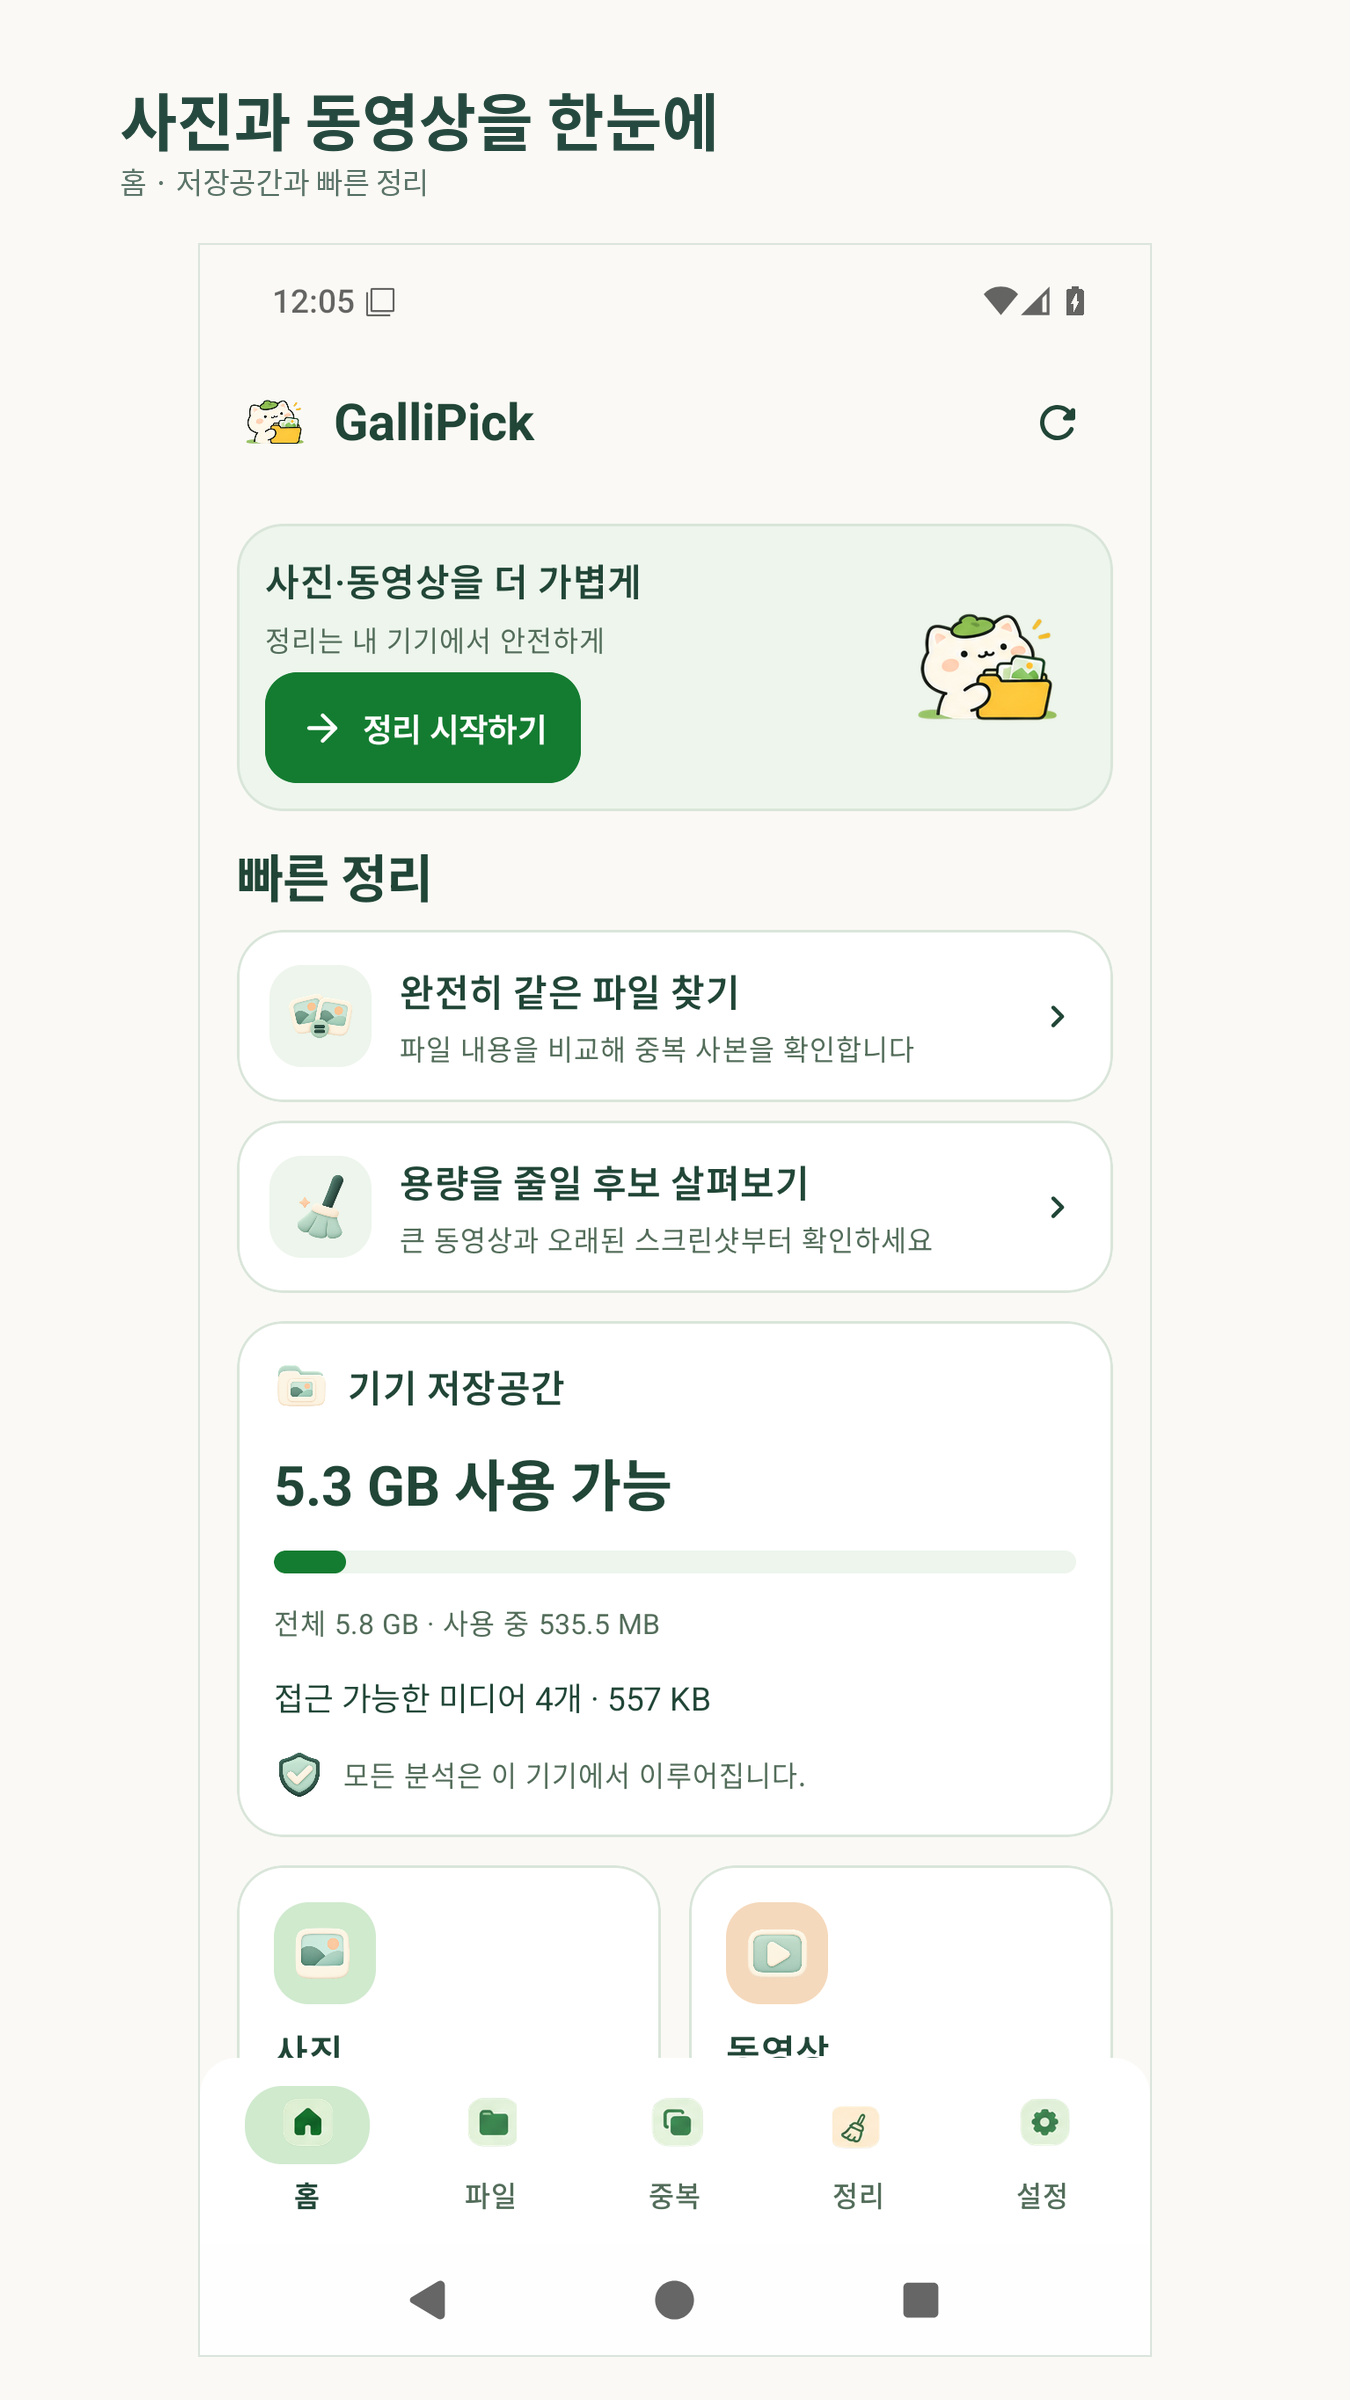
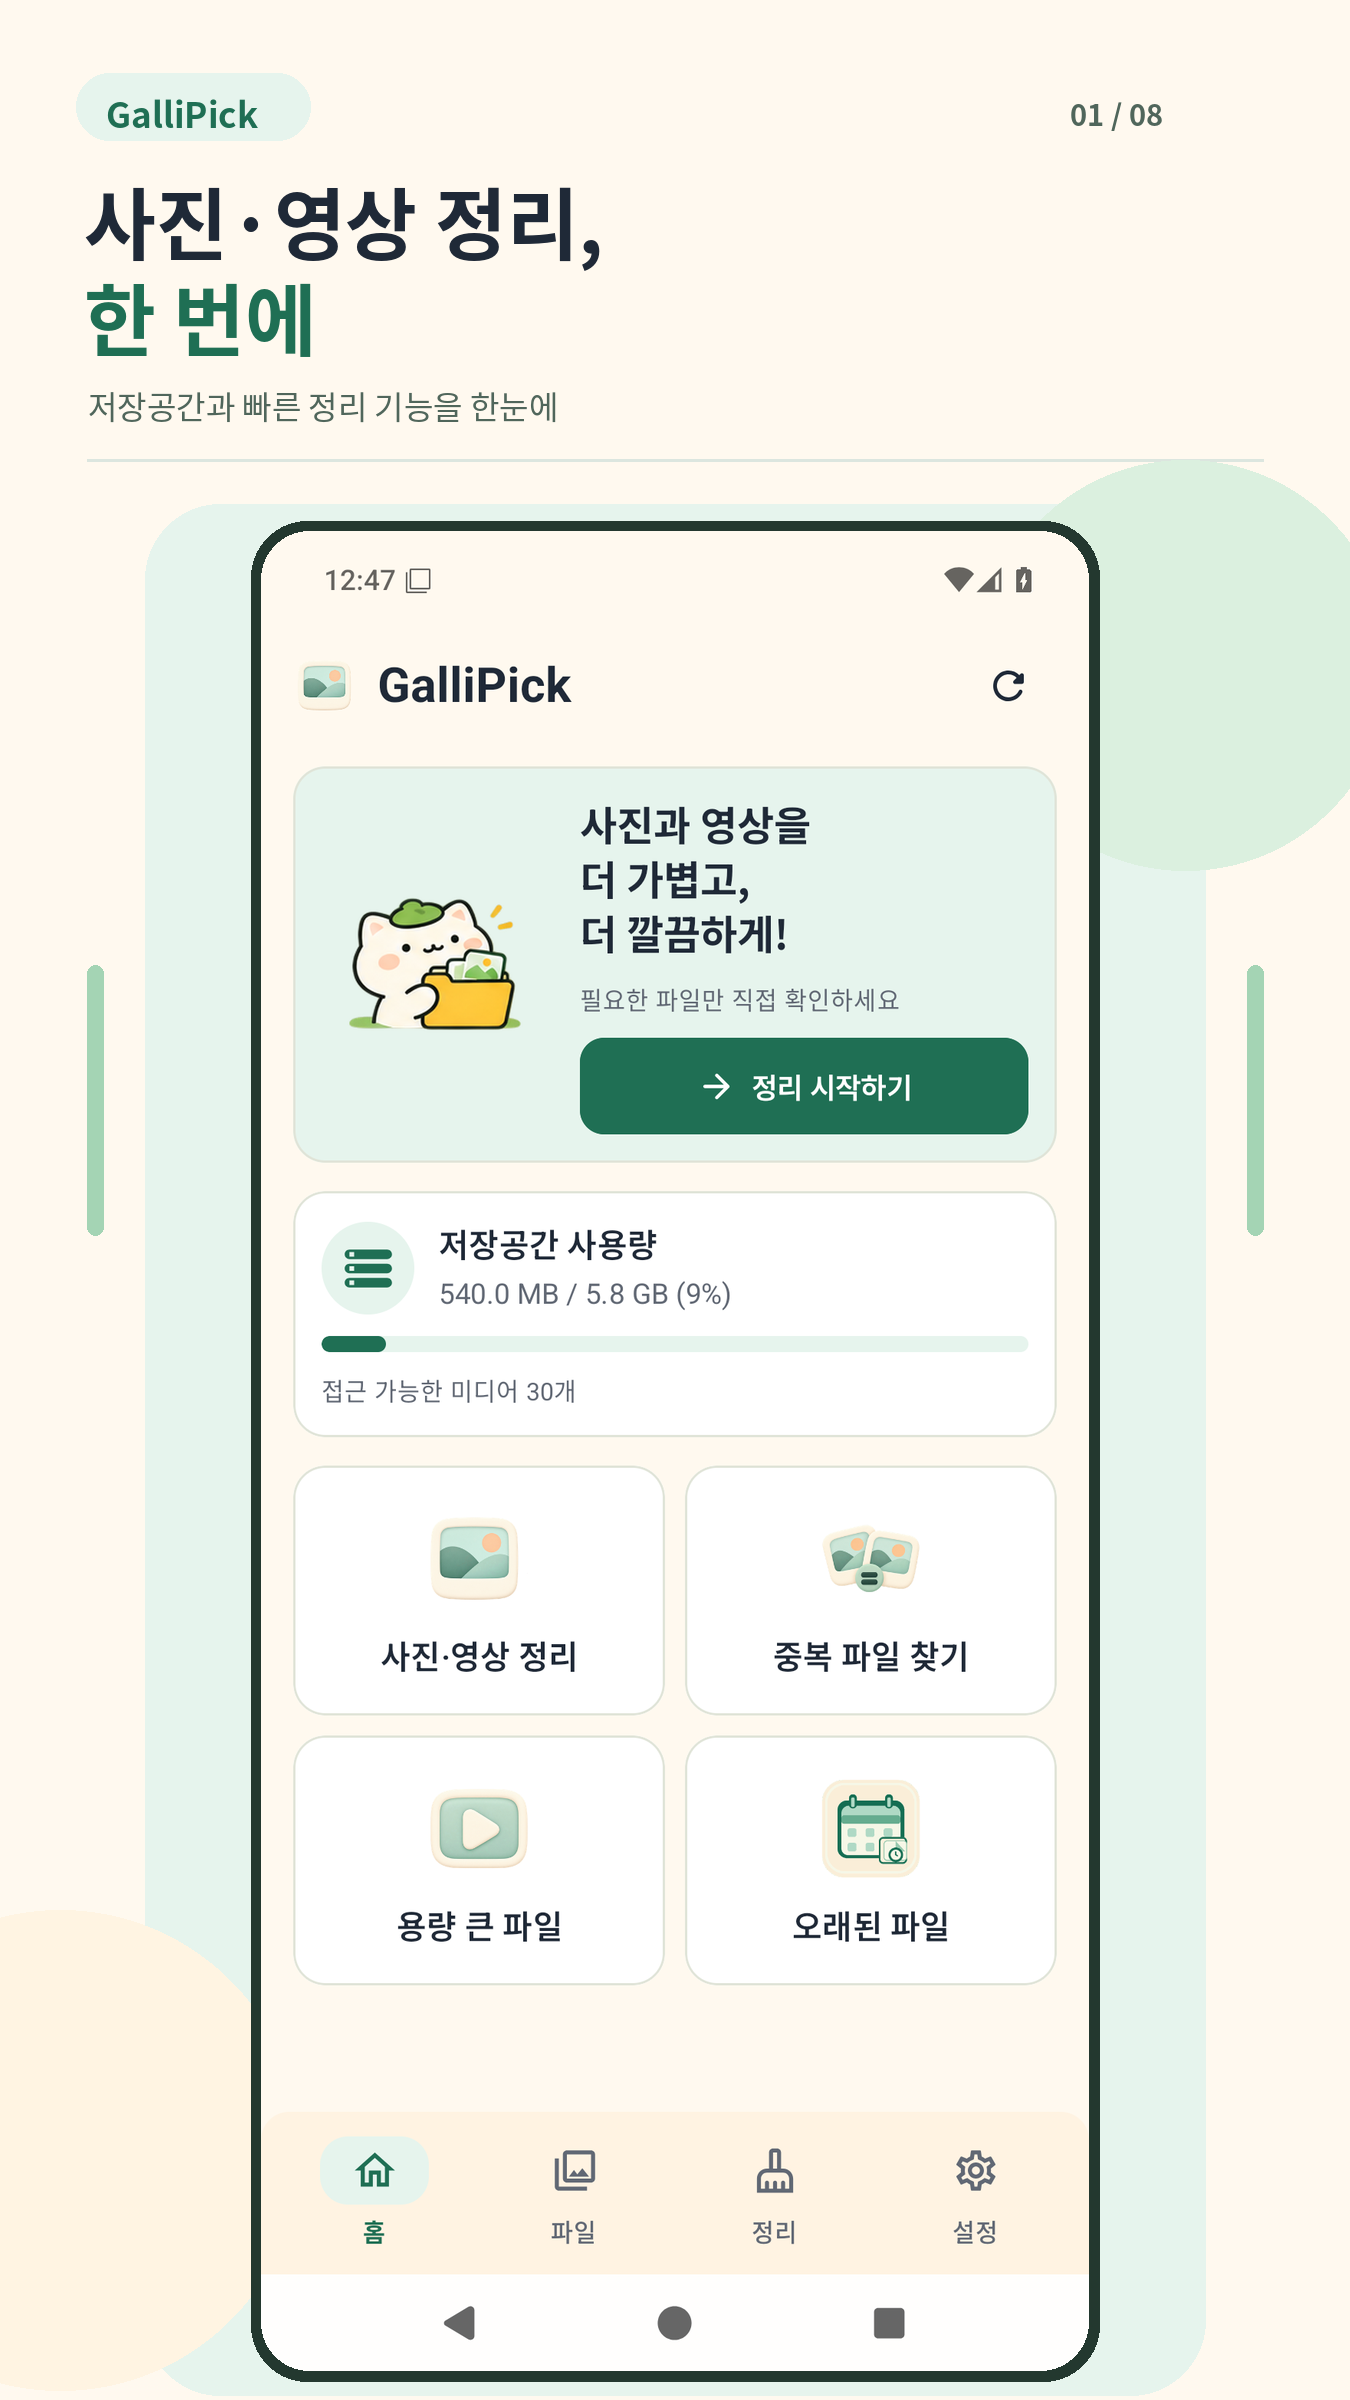
Store: refresh GalliPick v0.2.7 Korean screenshots (8 + feature) (#59)
Use verified PR #57 Android bitmap captures, update Play uploader to 8 images, and verify post-commit listing counts.

diff --git a/scripts/release/play_listing_images.py b/scripts/release/play_listing_images.py
@@ -14,8 +14,12 @@ from pathlib import Path
 PACKAGE = 'com.hebi.gallipick'
 LANGUAGE = 'ko-KR'
 SCREENSHOTS = [
-    '01-home.png', '02-files.png', '03-duplicates.png', '04-cleanup.png',
-    '05-settings-dark.png', '06-filters.png', '07-comparison.png',
+    '01-home.png', '02-files.png', '03-duplicates.png', '04-comparison.png',
+    '05-cleanup.png', '06-date-filter.png', '07-large-files.png', '08-trash.png',
+]
+SOURCE_SCREENS = [
+    '01-home', '02-files', '09-duplicates-scanned', '10-duplicate-comparison',
+    '04-cleanup', '08-files-filter-dialog', '06-files-size-descending', '07-trash-review',
 ]
 FEATURE = 'feature-graphic.png'
 BASE = f'https://androidpublisher.googleapis.com/androidpublisher/v3/applications/{PACKAGE}'
@@ -39,9 +43,14 @@ def validate(directory: Path):
     files = [(x['file'],x['sha256']) for x in manifest.get('screenshots',[])]
     if [x[0] for x in files] != SCREENSHOTS:
         raise ValueError('Unexpected number or order of screenshot assets')
-    primary_tabs = manifest.get('primary_tabs', [])
-    if primary_tabs != ['01-home', '02-files', '09-duplicates-scanned', '04-cleanup', '05-settings-dark']:
-        raise ValueError('Five primary navigation tabs must lead the store image sequence')
+    if manifest.get('source_screens') != SOURCE_SCREENS:
+        raise ValueError('Unexpected source screen order')
+    for screenshot, expected_scene in zip(manifest.get('screenshots', []), SOURCE_SCREENS):
+        source = screenshot.get('source', '')
+        if not isinstance(source, str) or not (
+            source == expected_scene + '.png' or source.endswith('-' + expected_scene + '.png')
+        ):
+            raise ValueError('Screenshot provenance does not match the approved scene: ' + expected_scene)
     unexpected = sorted(
         file.name for file in directory.glob('[0-9][0-9]-*.png')
         if file.name not in SCREENSHOTS
@@ -64,7 +73,7 @@ def validate(directory: Path):
             raise ValueError(f'Unexpected Play dimensions {size}: {name}')
         if path.stat().st_size > 15_000_000:
             raise ValueError(f'Image too large: {name}')
-    print(f'Validated {len(SCREENSHOTS)} real-screen composites, one feature graphic, no alpha')
+    print(f'Validated {len(SCREENSHOTS)} genuine Android screenshot composites, one feature graphic, no alpha')
     return files
 
 
@@ -107,7 +116,19 @@ def apply(directory, token):
     commit = api(token, 'POST', f'{BASE}/edits/{edit_id}:commit', {})
     if not commit.get('id'):
         raise RuntimeError('Play edit commit returned no ID')
-    print('Google Play accepted the Korean listing image edit. Check review/publishing status in Play Console.')
+    readback = api(token, 'POST', f'{BASE}/edits', {})
+    readback_id = readback.get('id')
+    if not readback_id:
+        raise RuntimeError('Committed edit but could not create a fresh readback edit; check Play Console')
+    try:
+        for image_type, names in [('phoneScreenshots', SCREENSHOTS), ('featureGraphic', [FEATURE])]:
+            endpoint = f'{BASE}/edits/{readback_id}/listings/{LANGUAGE}/{image_type}'
+            result = api(token, 'GET', endpoint)
+            if len(result.get('images', [])) != len(names):
+                raise RuntimeError(f'Google Play commit accepted but fresh {image_type} readback differs; check Play Console')
+    finally:
+        api(token, 'DELETE', f'{BASE}/edits/{readback_id}')
+    print('Google Play accepted and independently read back 8 ko-KR phone screenshots and 1 feature graphic. Review/publishing state not confirmed.')
 
 
 def main():

diff --git a/scripts/release/test_play_listing_images.py b/scripts/release/test_play_listing_images.py
@@ -21,14 +21,25 @@ class PlayListingImagesTest(unittest.TestCase):
             if filename == listing.FEATURE:
                 feature = {'file': filename, 'sha256': checksum}
             else:
-                screens.append({'file': filename, 'sha256': checksum})
+                scene = listing.SOURCE_SCREENS[len(screens)]
+                screens.append({'file': filename, 'source': 'fixture-' + scene + '.png', 'sha256': checksum})
         (directory / 'manifest.json').write_text(json.dumps({'screenshots': screens, 'feature_graphic': feature,
-            'primary_tabs': ['01-home', '02-files', '09-duplicates-scanned', '04-cleanup', '05-settings-dark']}), encoding='utf-8')
+            'source_screens': listing.SOURCE_SCREENS}), encoding='utf-8')
         return directory
 
     def test_validates_exact_scoped_assets(self):
         with tempfile.TemporaryDirectory() as temp:
-            self.assertEqual(len(listing.validate(self.make_assets(temp))), 8)
+            self.assertEqual(len(listing.validate(self.make_assets(temp))), 9)
+
+    def test_refuses_incorrect_source_order(self):
+        with tempfile.TemporaryDirectory() as temp:
+            directory = self.make_assets(temp)
+            path = directory / 'manifest.json'
+            manifest = json.loads(path.read_text())
+            manifest['source_screens'] = manifest['source_screens'][::-1]
+            path.write_text(json.dumps(manifest), encoding='utf-8')
+            with self.assertRaisesRegex(ValueError, 'source screen order'):
+                listing.validate(directory)
 
     def test_refuses_alpha_screenshots(self):
         with tempfile.TemporaryDirectory() as temp:
@@ -42,11 +53,12 @@ class PlayListingImagesTest(unittest.TestCase):
             with self.assertRaisesRegex(ValueError, 'SHA-256'):
                 listing.validate(directory)
 
-    def test_navigation_tabs_precede_modal_screens(self):
+    def test_first_five_screens_cover_main_app_tasks(self):
         self.assertEqual(
             listing.SCREENSHOTS[:5],
-            ['01-home.png', '02-files.png', '03-duplicates.png', '04-cleanup.png', '05-settings-dark.png'],
+            ['01-home.png', '02-files.png', '03-duplicates.png', '04-comparison.png', '05-cleanup.png'],
         )
+        self.assertEqual(len(listing.SCREENSHOTS), 8)
 
     def test_refuses_old_unlisted_screenshots(self):
         with tempfile.TemporaryDirectory() as temp:

diff --git a/assets/play-store/README.md b/assets/play-store/README.md
@@ -1,29 +1,29 @@
-# GalliPick Google Play preview assets
+# GalliPick 한국어 Google Play 이미지 · v0.2.7 (2026-11-08)
 
-## Final redesign screenshots — 2026-11-05, stage 7
+이번 등록용 이미지 세트는 Google Play 휴대전화 설명 이미지 **8장**(1350 × 2400, RGB PNG)과 대표 그래픽 **1장**(1024 × 500, RGB PNG)입니다.
 
-The seven ordered `ko-KR/01-home.png` through `07-comparison.png` store screenshots and the 1024 × 500 `feature-graphic.png` are regenerated from **verified, genuine Android API 36 screen captures**. They replace screenshots made before the full stage 1–6 redesign.
+- 앱 ID: `com.hebi.gallipick`, 등록정보 언어: `ko-KR`
+- 실제 Android 캡처 소스: `4729c85428c6ef7c82f6ee3ebceb69b51d5d5fc5` · [PR #57 5개 기기 환경 검증](https://github.com/hebi10/GalliPick/actions/runs/42430836251)
+- 현재 배포 코드: `5f9937ada6f17c1579ea107f56fd060c8af2c61f` · v0.2.7/code 18
+- 예제 사진·영상은 에뮬레이터 검수용 테스트 미디어입니다. 개인 사용자 갤러리를 사용하지 않았습니다.
+- 앱 안쪽 UI는 실제 Android 비트맵 그대로 유지했으며, 외부 여백에 제목과 브랜드 색상을 합성했습니다.
+- 파일별 원본 및 SHA-256 증거: [manifest.json](ko-KR/manifest.json)
 
-- **Capture source commit:** `2d3cf757a934d4588984b644ebe246ee64e9a37a` (navigation and dark utility icon corrections verified)
-- **Capture workflow:** [Run #42023456154](https://github.com/hebi10/GalliPick/actions/runs/42023456154), phone-portrait profile (all five device profiles passed)
-- **Store image renderer:** `scripts/design/package_store_assets.py`; only genuine on-device UI pixels are pasted within a cream marketing frame and caption, never re-generated as fake app UI
-- **Source media:** Test-owned EXAMPLE fixtures, not user photos
-- **Provenance and hashes:** `ko-KR/manifest.json`; `source_commit` and `source_run` identify the approved screenshot run
+## 업로드 순서
 
-**Navigation-first viewing order:** 01 home, 02 files, 03 complete-duplicate scan, 04 cleanup, 05 dark settings, followed by 06 advanced filter dialog and 07 A/B duplicate comparison. The first five are real top-level Android screens with the complete five-tab bar; the last two intentionally show overlays and are not presented as independent navigation tabs. The feature graphic uses the checked-in GalliPick cat asset.
+1. `01-home.png` — 사진·영상 정리 홈
+2. `02-files.png` — 파일 목록과 검색
+3. `03-duplicates.png` — 완전히 같은 파일 검사
+4. `04-comparison.png` — 남길 사본 비교
+5. `05-cleanup.png` — 종류별 정리
+6. `06-date-filter.png` — 촬영·추가·수정 날짜 필터
+7. `07-large-files.png` — 파일 용량순 정렬
+8. `08-trash.png` — Android 휴지통 이동 전 확인
 
-The actual Android screenshots are the only source of app UI pixels. AI-generated design-study boards are not app screenshots and must never be included in the Play uploads. The dark-mode solid-square icon defect was corrected before these images were regenerated. No similar-photo detection, automatic deletion, notification scheduling, or backup features are advertised.
+**정확성 안내:** 05는 검사 예제에서 정리 후보가 없는 상태를 보여 줍니다. 06은 날짜 필터 화면이지 다운로드 날짜별 결과가 아닙니다. 07은 전체 파일 용량순 정렬 화면이지 10MB 이상 사진만 추린 화면이 아닙니다. 제공하지 않는 유사 사진 감지, 자동 삭제 또는 즉시 저장공간 확보를 암시하지 않습니다.
 
-### Publishing behavior
+## 배포 범위 및 검증
 
-`.github/workflows/play-listing-images.yml` validates all image hashes, RGB dimensions, and the seven screenshot order, then uses the existing GalliPick Google Play authentication to submit **only** the `ko-KR` `phoneScreenshots` and `featureGraphic` types for `com.hebi.gallipick` when store assets change on `main`. It does not edit other apps, tracks, the store icon, or published binaries.
+[스토어 이미지 전용 워크플로](../../.github/workflows/play-listing-images.yml)는 이미지와 manifest의 개수·순서·RGB·크기·SHA-256을 검사한 뒤 한국어 `phoneScreenshots`와 `featureGraphic`만 한 번의 Google Play edit로 교체합니다. 이미 존재하는 앱 릴리스 AAB, 서명키, 비공개 테스트·내부 테스트·프로덕션 트랙, 다른 국가/언어의 등록정보, 스토어 아이콘은 수정하지 않습니다.
 
-`.github/workflows/play-deploy.yml` separately prepares the fixed-key release AAB/APK and, for the intentional `[deploy-internal]` version-bump merge, targets only the internal testing track. Both Play workflows share a concurrency group to prevent concurrent Google Play edit sessions.
-
-**API submission is not publication.** Successful GitHub Actions or edits do not guarantee store visibility or that testers can install the updated version. The user has requested that Play Console actual availability not be checked during this stage.
-
-## Store icon updates
-
-The former `ko-KR/app-icon.png` was a legacy photo-card icon and is intentionally removed to prevent accidental reuse. On a main-branch change to the icon or its generator, [the dedicated icon workflow](../../.github/workflows/play-store-icon.yml) builds and validates the single 32-bit 512 px image, then submits **only** the `com.hebi.gallipick` `ko-KR` `icon` image type. It does not touch screenshots, feature graphics, testing tracks, or other apps.
-
-[2026-11-05 GalliPick icon update](https://github.com/hebi10/GalliPick/actions/runs/41964686350) completed: the Google Play API accepted the new `ko-KR` icon edit, and a new edit confirmed that one icon is present. Submission is not Google approval. Check the Play Console publishing overview for the final store-visible image.
+Google Play API의 edit commit 및 별도 readback 성공과 스토어 심사 승인·공개 노출은 별개입니다.
